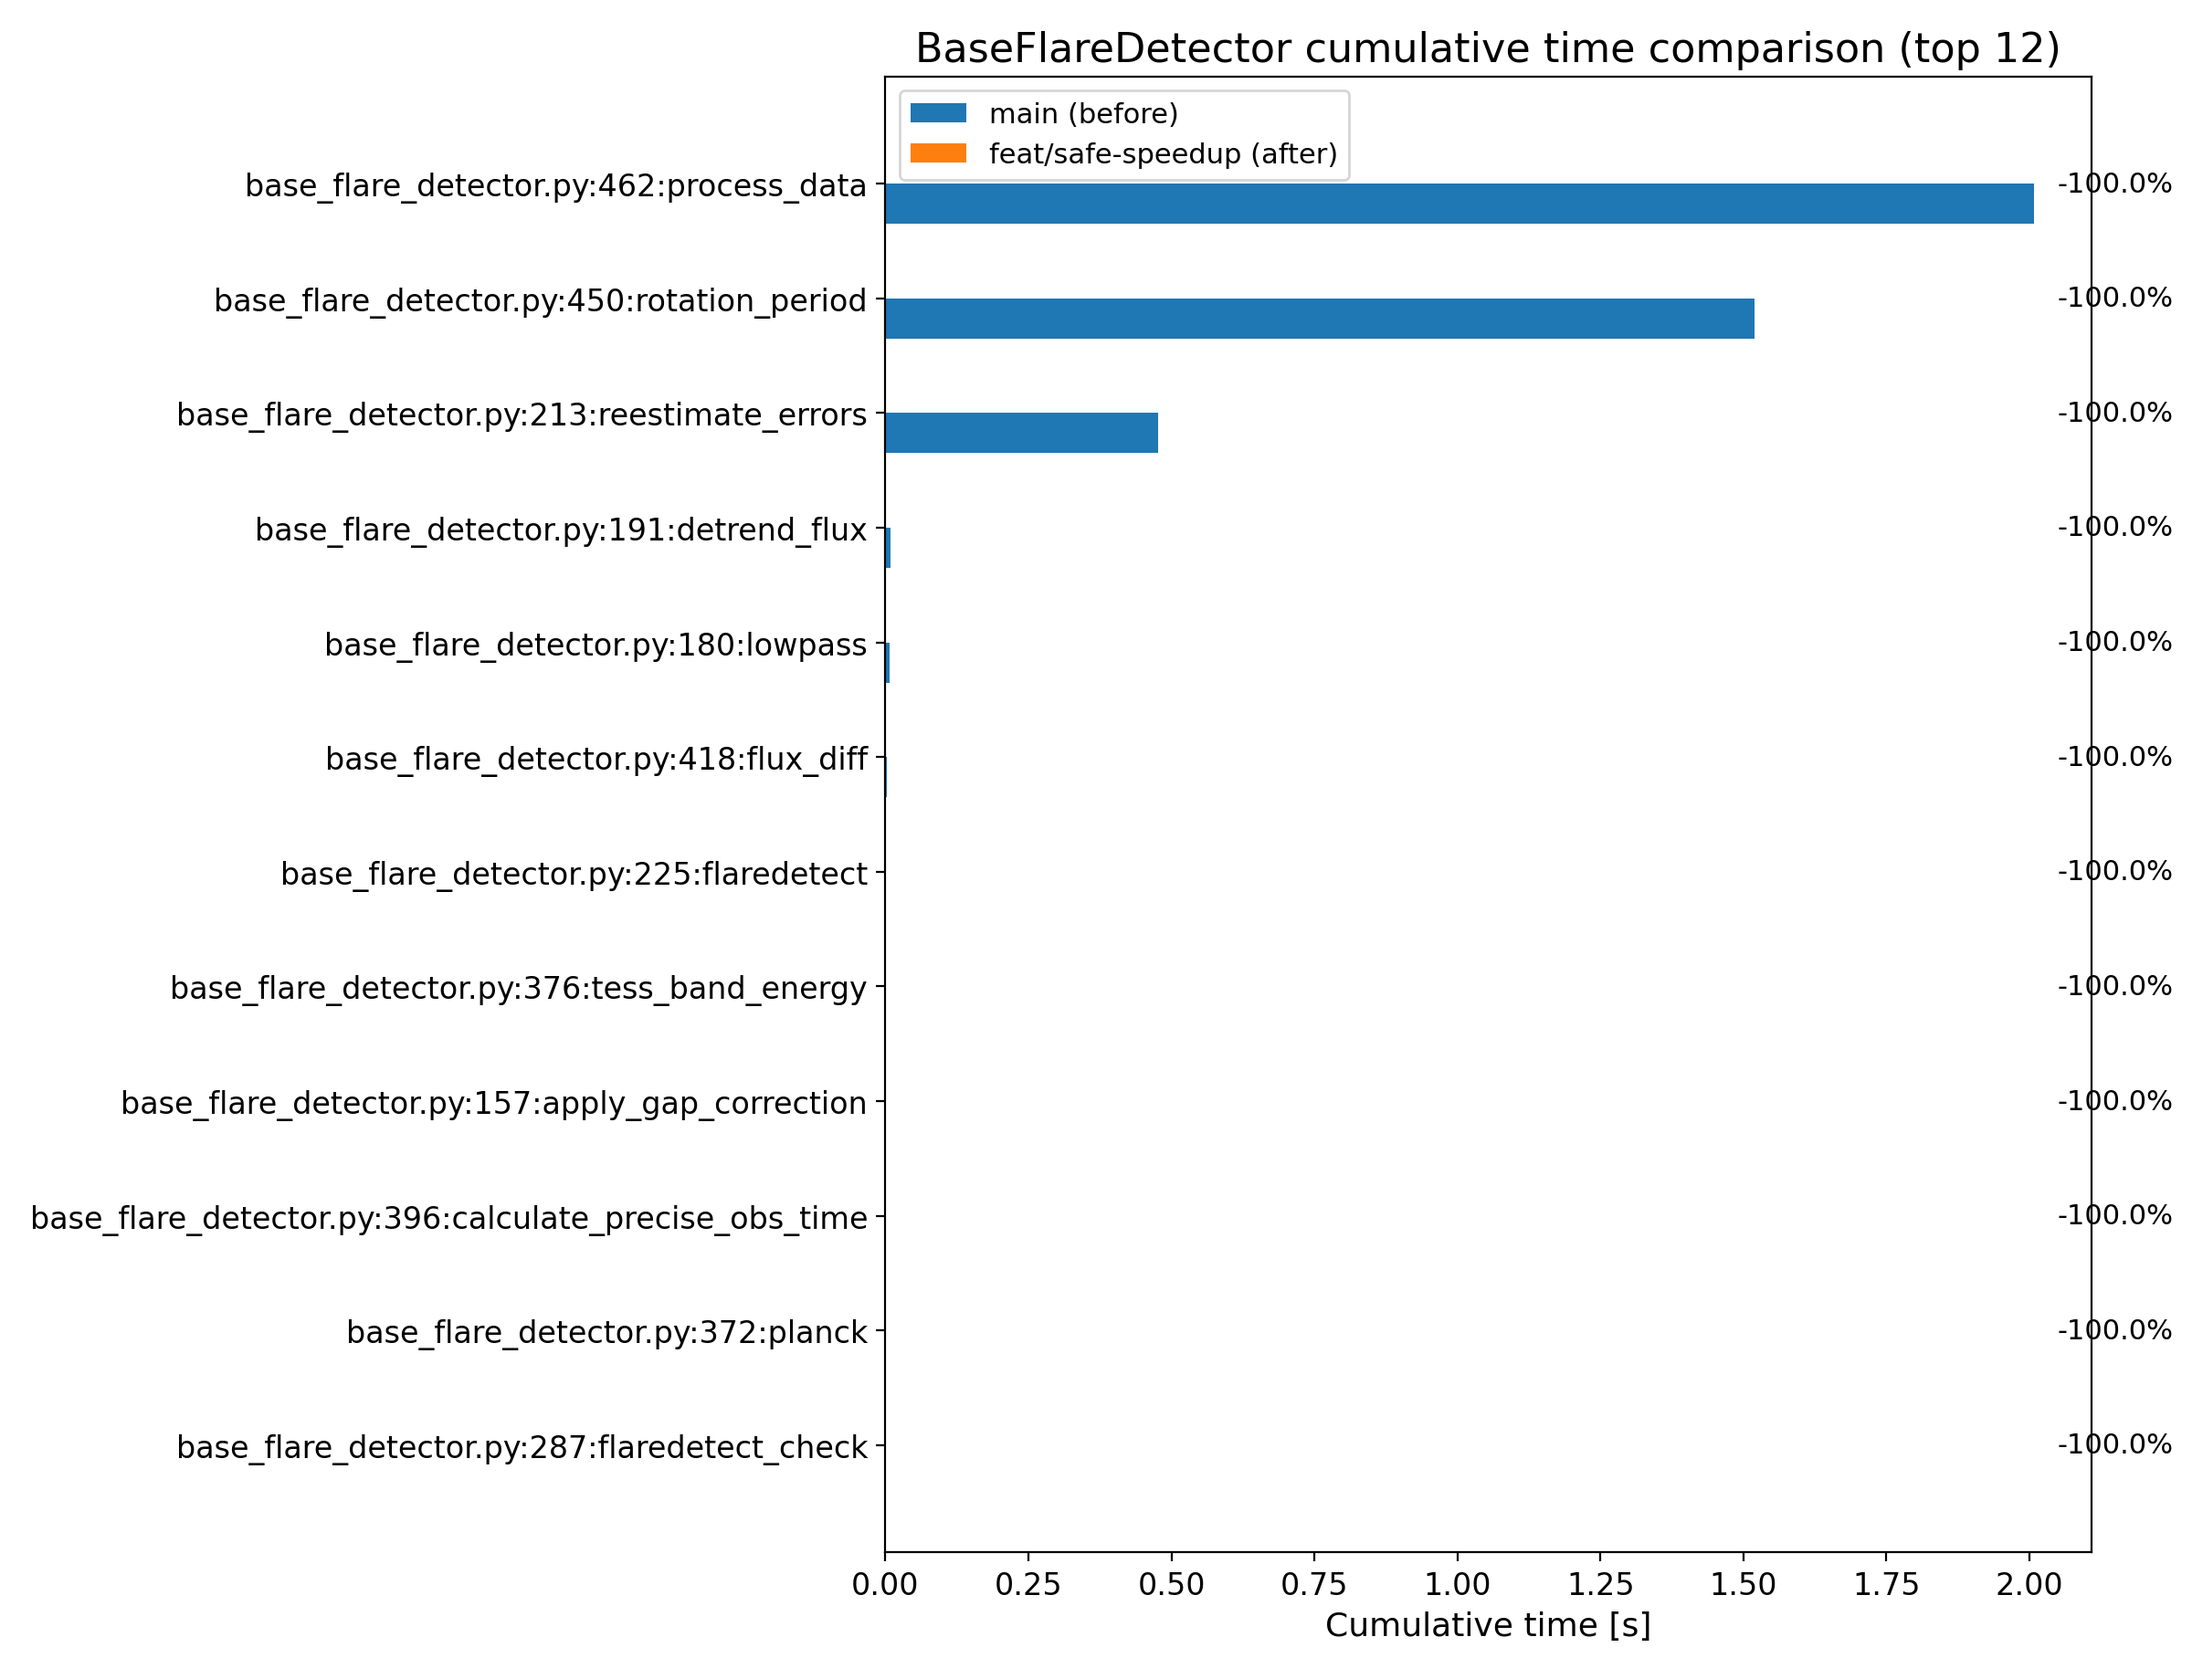
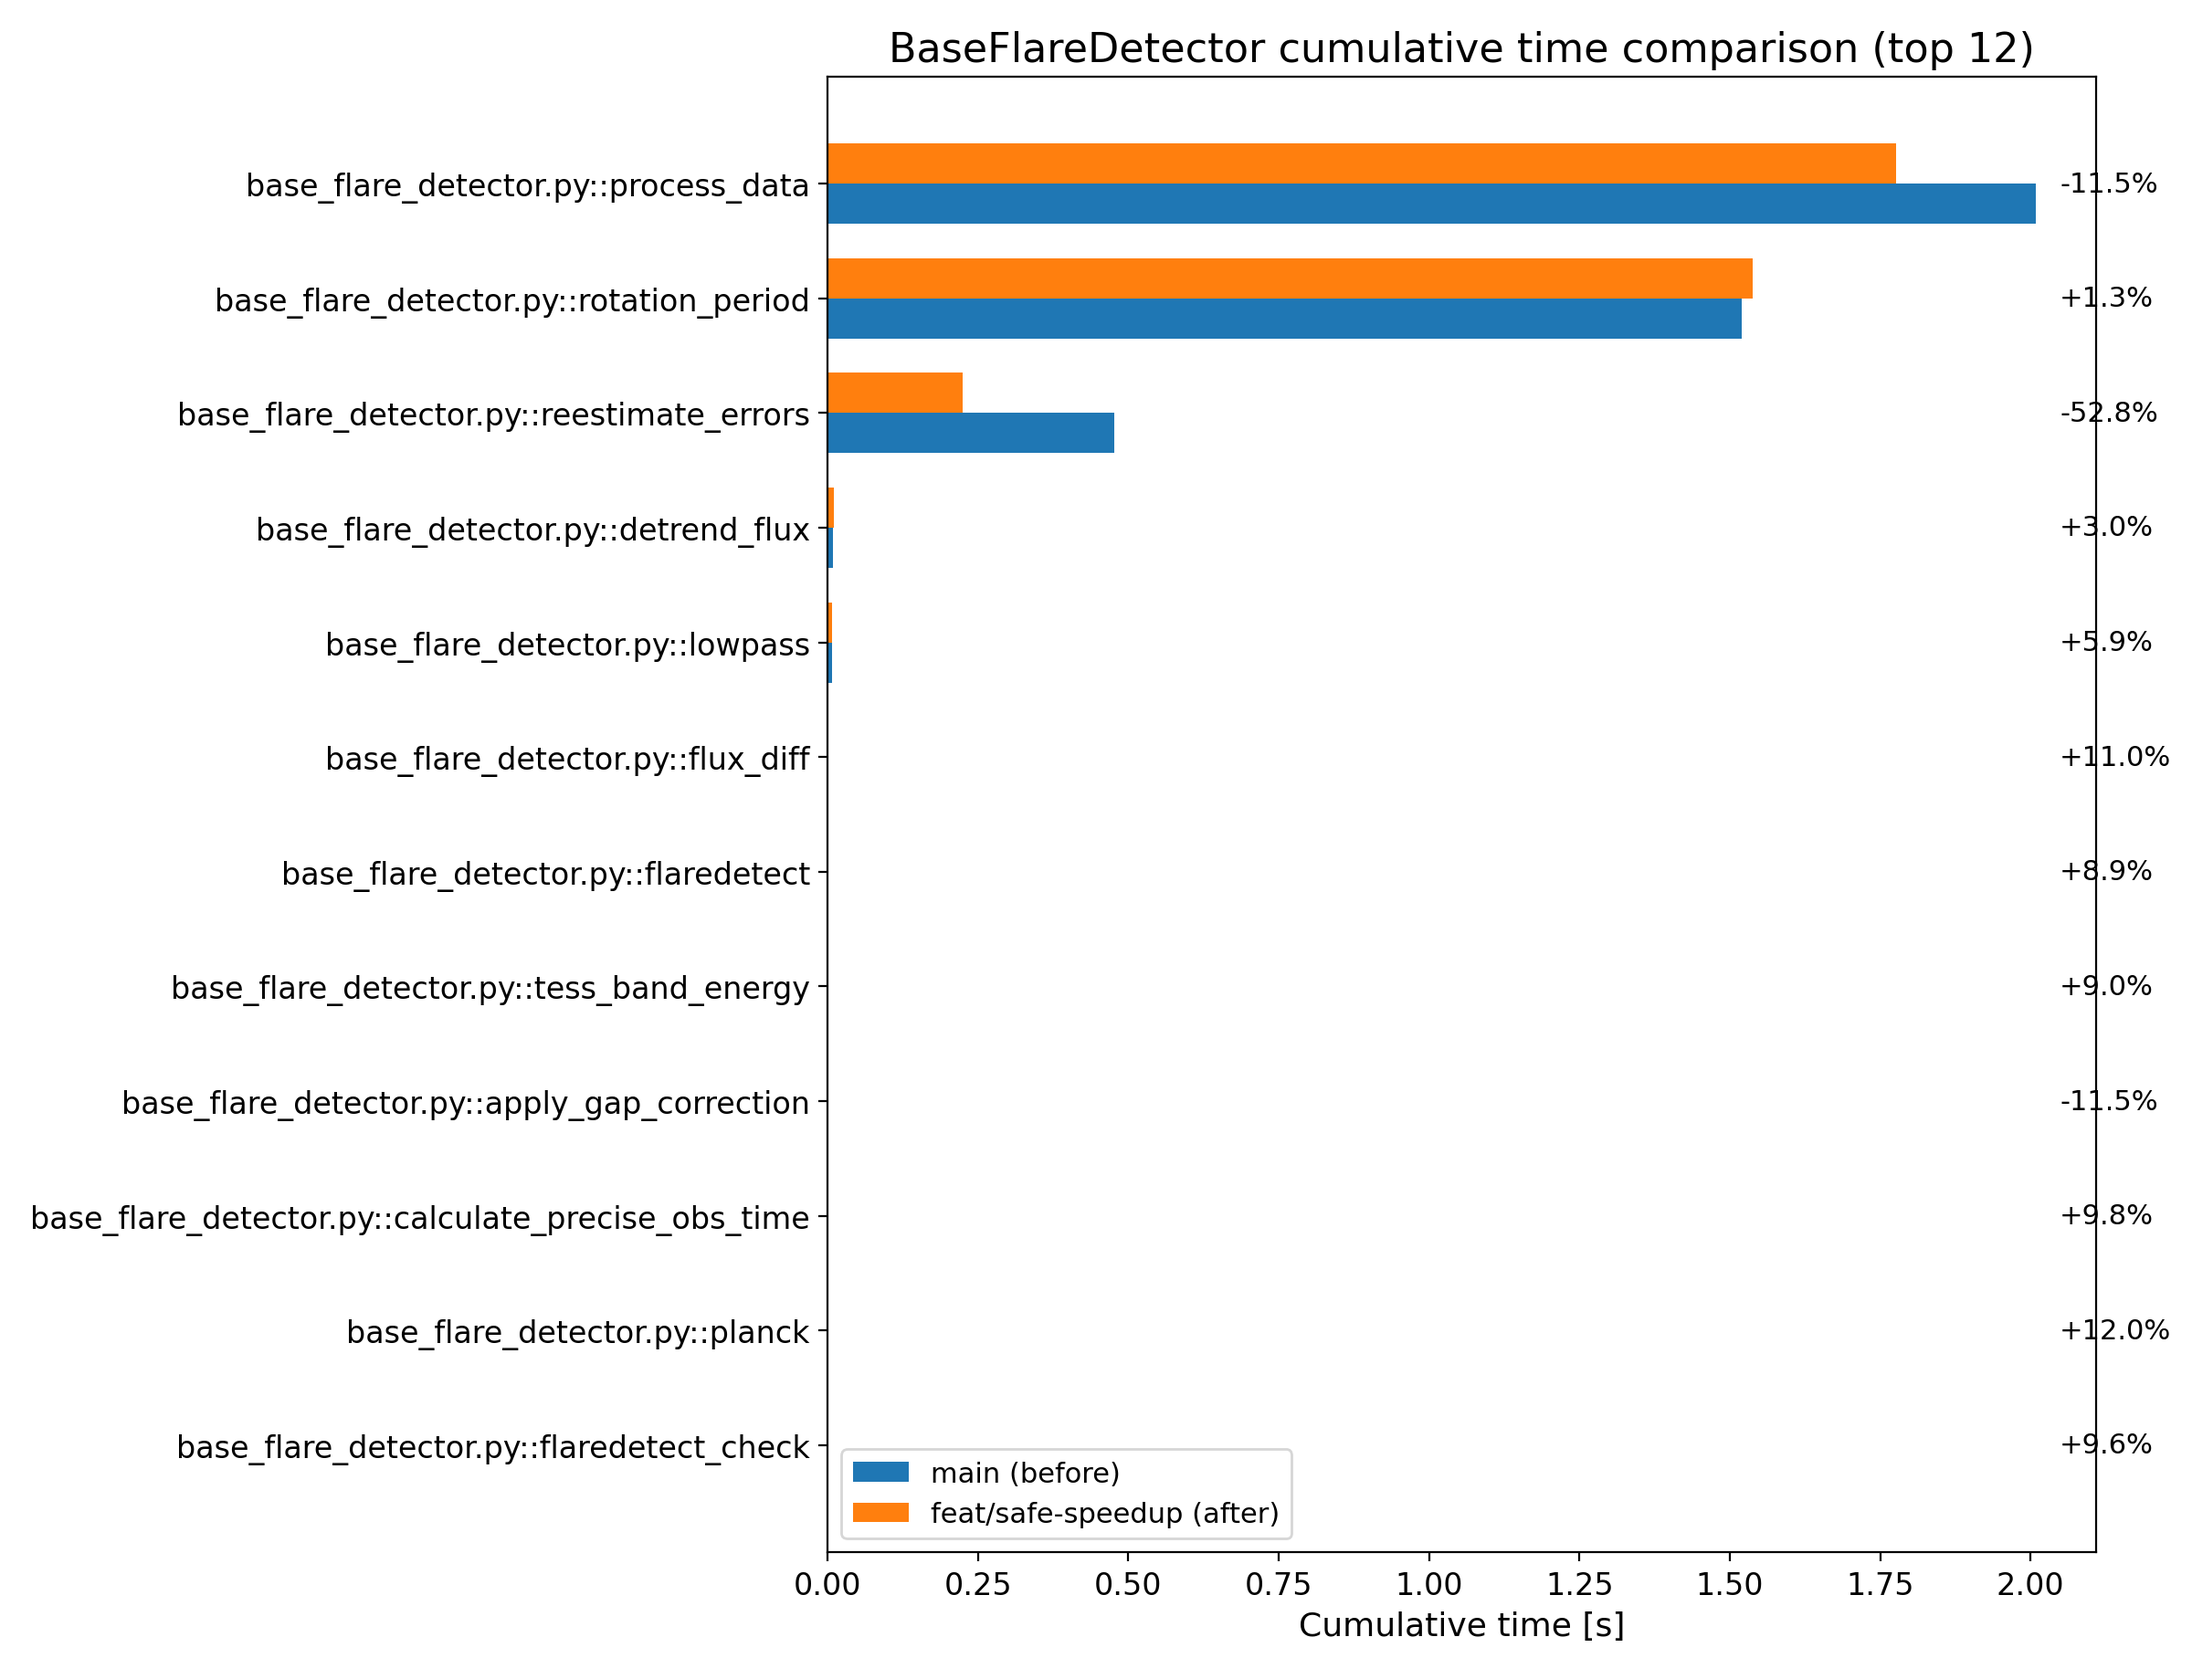
chore: プロファイル比較のマッチング精度を改善

diff --git a/scripts/compare_profile_results.py b/scripts/compare_profile_results.py
@@ -11,22 +11,37 @@ import numpy as np
 import pandas as pd
 
 
+def canonical_function_label(func: str) -> str:
+    parts = func.split(":")
+    if len(parts) >= 3:
+        file_part = parts[0]
+        func_part = parts[-1]
+        return f"{file_part}::{func_part}"
+    return func
+
+
 def load_profile(path: Path) -> pd.DataFrame:
     if not path.exists():
         raise FileNotFoundError(f"プロファイル CSV が見つかりません: {path}")
     df = pd.read_csv(path)
     mask = df["function"].str.contains("base_flare_detector.py")
-    return df[mask].copy()
+    df = df[mask].copy()
+    df["key"] = df["function"].apply(canonical_function_label)
+    return df
 
 
 def build_comparison(before: pd.DataFrame, after: pd.DataFrame, label_before: str, label_after: str) -> pd.DataFrame:
     merged = pd.merge(
-        before[["function", "cumtime"]],
-        after[["function", "cumtime"]],
-        on="function",
+        before[["key", "function", "cumtime"]],
+        after[["key", "function", "cumtime"]],
+        on="key",
         how="outer",
         suffixes=("_before", "_after"),
-    ).fillna(0.0)
+    )
+    for col in ("cumtime_before", "cumtime_after"):
+        merged[col] = merged[col].fillna(0.0)
+    merged["function_before"] = merged["function_before"].fillna(merged["function_after"])
+    merged["function_after"] = merged["function_after"].fillna(merged["function_before"])
     merged["delta"] = merged["cumtime_after"] - merged["cumtime_before"]
     merged["percent_change"] = np.where(
         merged["cumtime_before"] > 0,
@@ -41,6 +56,8 @@ def build_comparison(before: pd.DataFrame, after: pd.DataFrame, label_before: st
         },
         inplace=True,
     )
+    merged.insert(0, "function_key", merged["key"])
+    merged.drop(columns=["key"], inplace=True)
     return merged
 
 
@@ -79,7 +96,7 @@ def plot_comparison(df: pd.DataFrame, output_png: Path, label_before: str, label
         ax.text(max_val * 1.02, indices[idx], text, va="center", ha="left", fontsize=11)
 
     ax.set_yticks(indices)
-    ax.set_yticklabels(top["function"])
+    ax.set_yticklabels(top["function_key"])
     ax.set_xlabel("Cumulative time [s]")
     ax.set_title(f"BaseFlareDetector cumulative time comparison (top {top_n})")
     ax.invert_yaxis()
